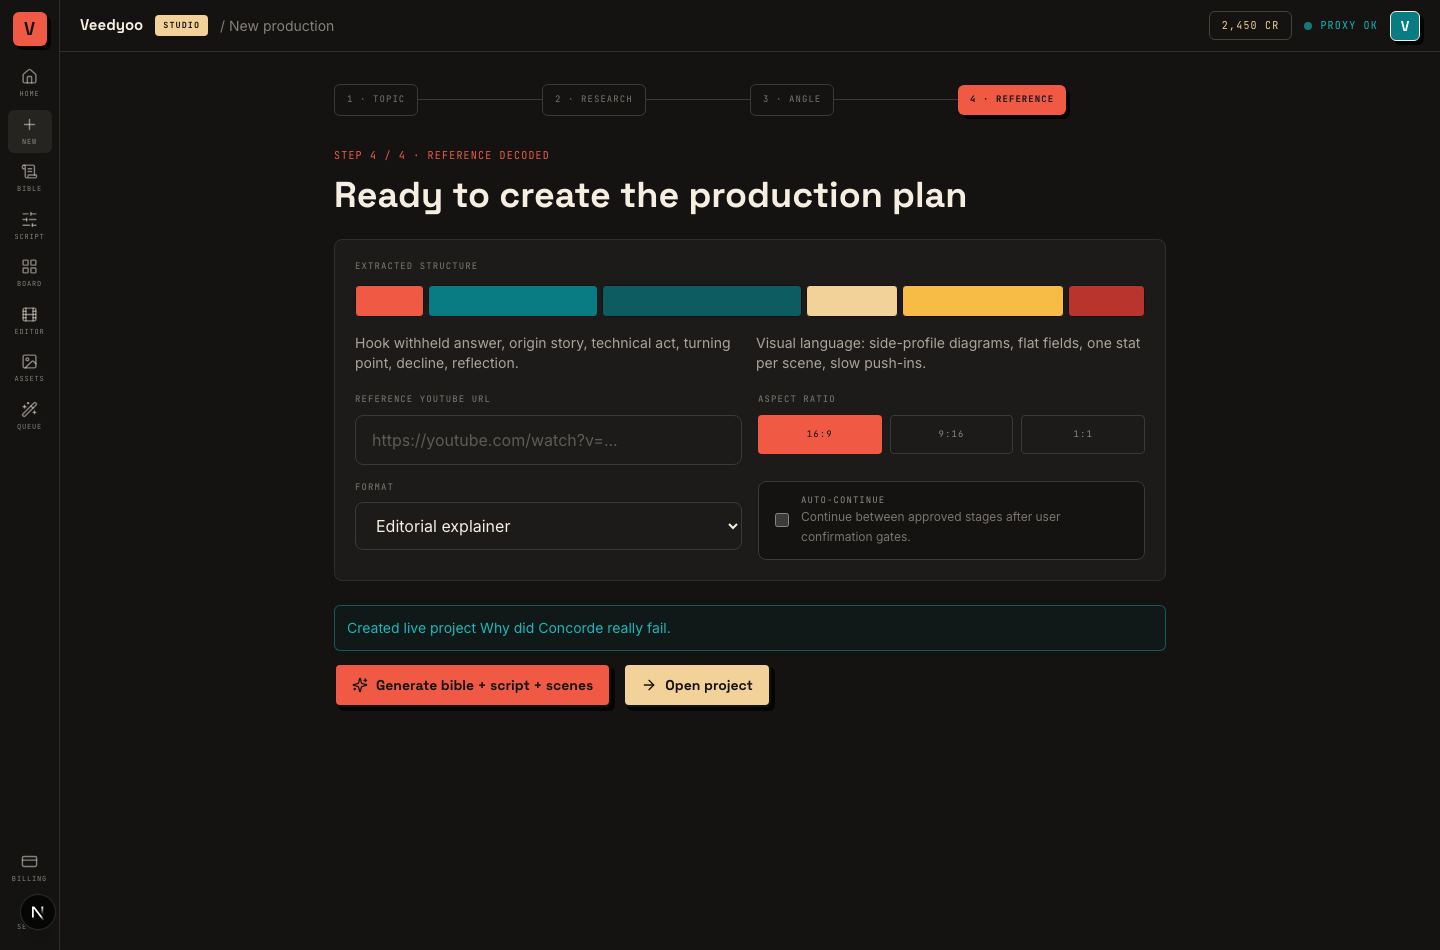
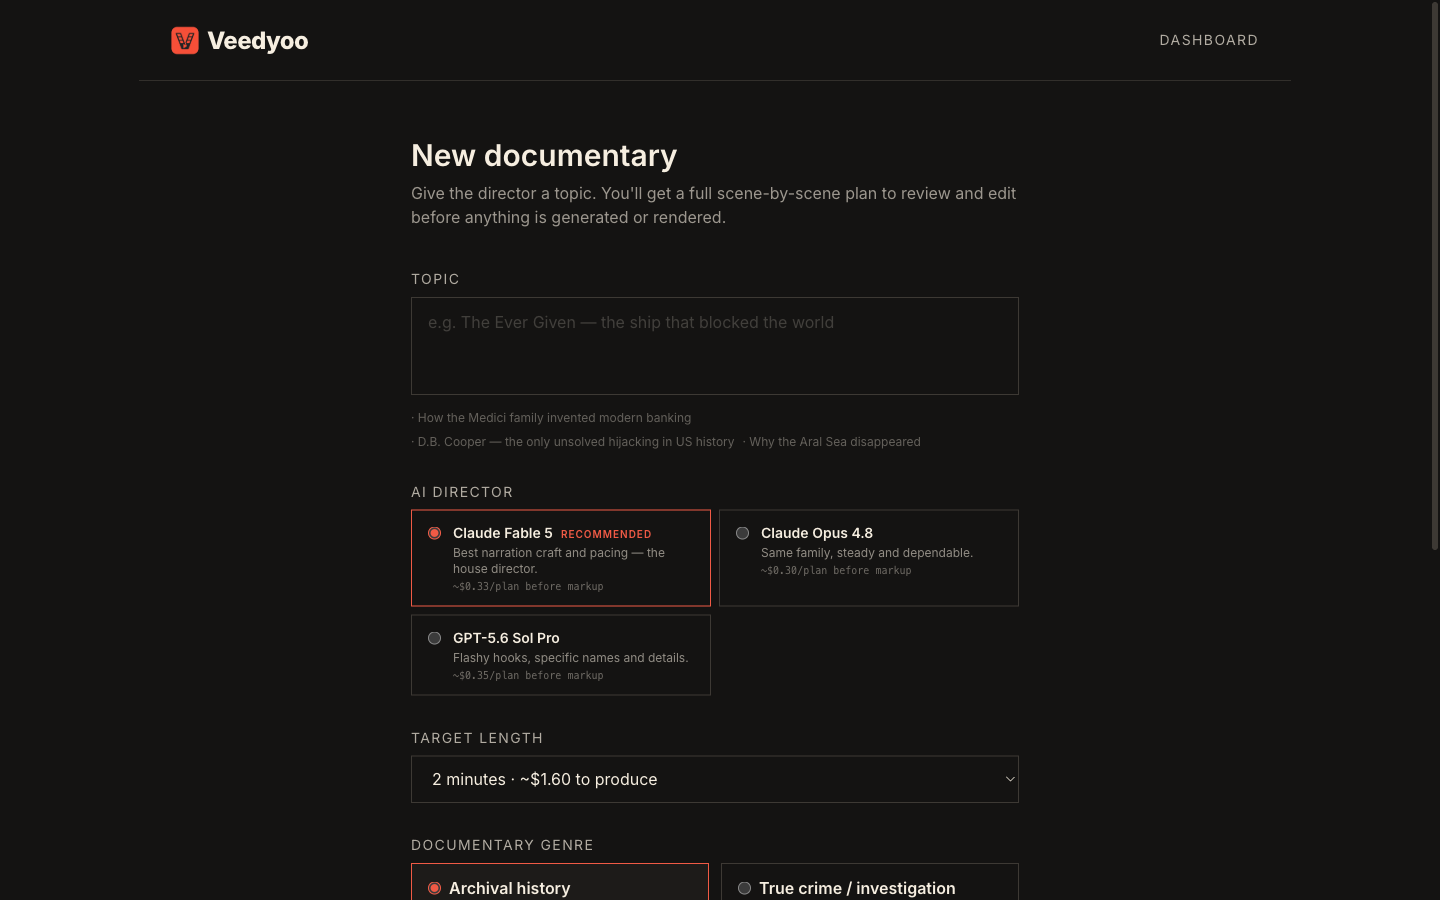
Update landing screenshots, brand asset, blog posts, and homepage copy

diff --git a/src/styles/global.css b/src/styles/global.css
@@ -149,6 +149,29 @@
   .content-prose li + li {
     margin-top: 0.45rem;
   }
+
+  .content-prose .product-figure {
+    margin: 2rem 0;
+    overflow: hidden;
+    border: 1px solid #3d3934;
+    border-radius: 8px;
+    background: #1d1b19;
+    box-shadow: 4px 4px 0 rgba(0, 0, 0, 0.75);
+  }
+
+  .content-prose .product-figure img {
+    display: block;
+    width: 100%;
+    height: auto;
+  }
+
+  .content-prose .product-figure figcaption {
+    border-top: 1px solid #322f2b;
+    padding: 0.75rem 1rem;
+    color: rgba(246, 238, 224, 0.58);
+    font-size: 0.875rem;
+    line-height: 1.5;
+  }
 }
 
 @keyframes ef-fade-up {

diff --git a/src/content/blog/choose-documentary-template.md b/src/content/blog/choose-documentary-template.md
@@ -8,6 +8,11 @@ minutesRead: 4
 
 Templates are useful when they make decisions clearer. They should not make every video look the same. The right template gives your topic a starting structure, tone, and visual grammar.
 
+<figure class="product-figure">
+  <img src="/screens/new-documentary-genres.png" width="1440" height="900" loading="lazy" decoding="async" alt="Current Veedyoo new-documentary screen showing target length and eight documentary genre choices." />
+  <figcaption>Veedyoo currently exposes the creative starting point as eight documentary genres, each with its own narrative register.</figcaption>
+</figure>
+
 ## Use editorial for argument-led topics
 
 Choose an editorial style when the video needs a clear thesis and supporting chapters. This works well for policy, cities, social change, and culture.

diff --git a/src/content/blog/faceless-youtube-workflow.md b/src/content/blog/faceless-youtube-workflow.md
@@ -10,6 +10,11 @@ The hardest part of faceless YouTube is not only writing a script. The hard part
 
 Start with the topic, then slow down before generating assets.
 
+<figure class="product-figure">
+  <img src="/screens/voyager-storyboard.png" width="1440" height="900" loading="lazy" decoding="async" alt="Current Veedyoo Voyager 1 project showing its title, production details, and first storyboard scenes with narration and timing." />
+  <figcaption>Voyager 1 inside the current Veedyoo workflow: one project carries the narration, timing, scene type, visual direction, and generated media.</figcaption>
+</figure>
+
 ## 1. Write the promise in one sentence
 
 The promise is what the viewer gets for staying. A good promise is specific enough to guide every scene.

diff --git a/src/content/blog/script-to-storyboard.md b/src/content/blog/script-to-storyboard.md
@@ -10,6 +10,11 @@ Many creators write a full script first and then ask, "What should be on screen?
 
 A better workflow is to split the script into scenes while you write.
 
+<figure class="product-figure">
+  <img src="/screens/editor-preview.png" width="1440" height="900" loading="lazy" decoding="async" alt="Current Veedyoo editor showing Voyager 1 scenes, a Jupiter preview, narration, generated imagery, and the timeline." />
+  <figcaption>The Voyager 1 demo in the current editor: narration, visual treatment, timing, generated media, and the whole cut remain connected.</figcaption>
+</figure>
+
 ## Start with scene jobs
 
 Every scene should have a job. It might introduce a question, explain a mechanism, show evidence, compare two options, or close a chapter.

diff --git a/src/content/blog/video-idea-frameworks.md b/src/content/blog/video-idea-frameworks.md
@@ -8,6 +8,11 @@ minutesRead: 4
 
 Some video ideas are easier to produce because they already imply structure. For solo creators, that matters. A topic that naturally becomes chapters is easier to script, storyboard, preview, and render.
 
+<figure class="product-figure">
+  <img src="/screens/wizard-production-plan.png" width="1440" height="900" loading="lazy" decoding="async" alt="Current Veedyoo new-documentary screen with a blank topic field and three AI director choices." />
+  <figcaption>The current starting point is deliberately small: describe the idea, choose the director, then set the target length and genre.</figcaption>
+</figure>
+
 ## 1. The hidden system
 
 This framework explains the invisible machinery behind something familiar.